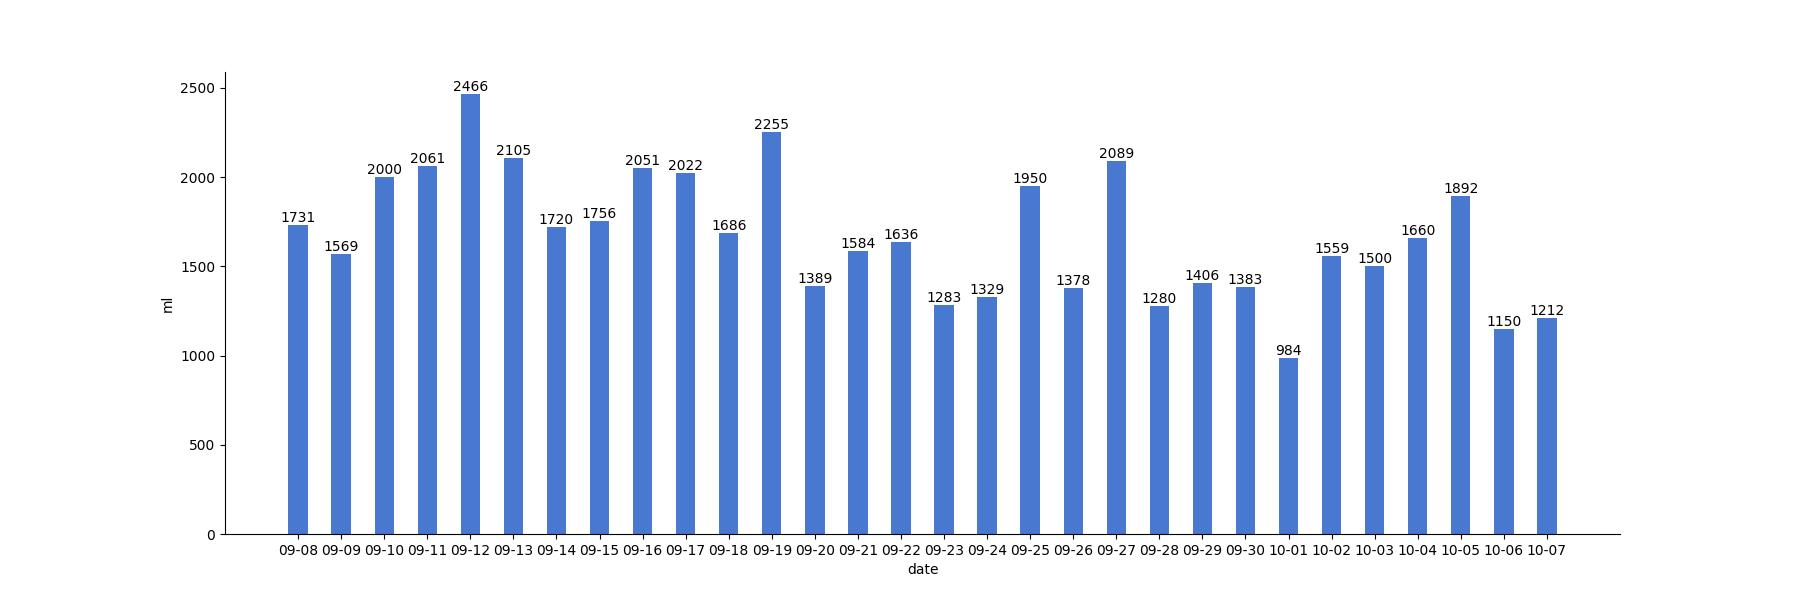
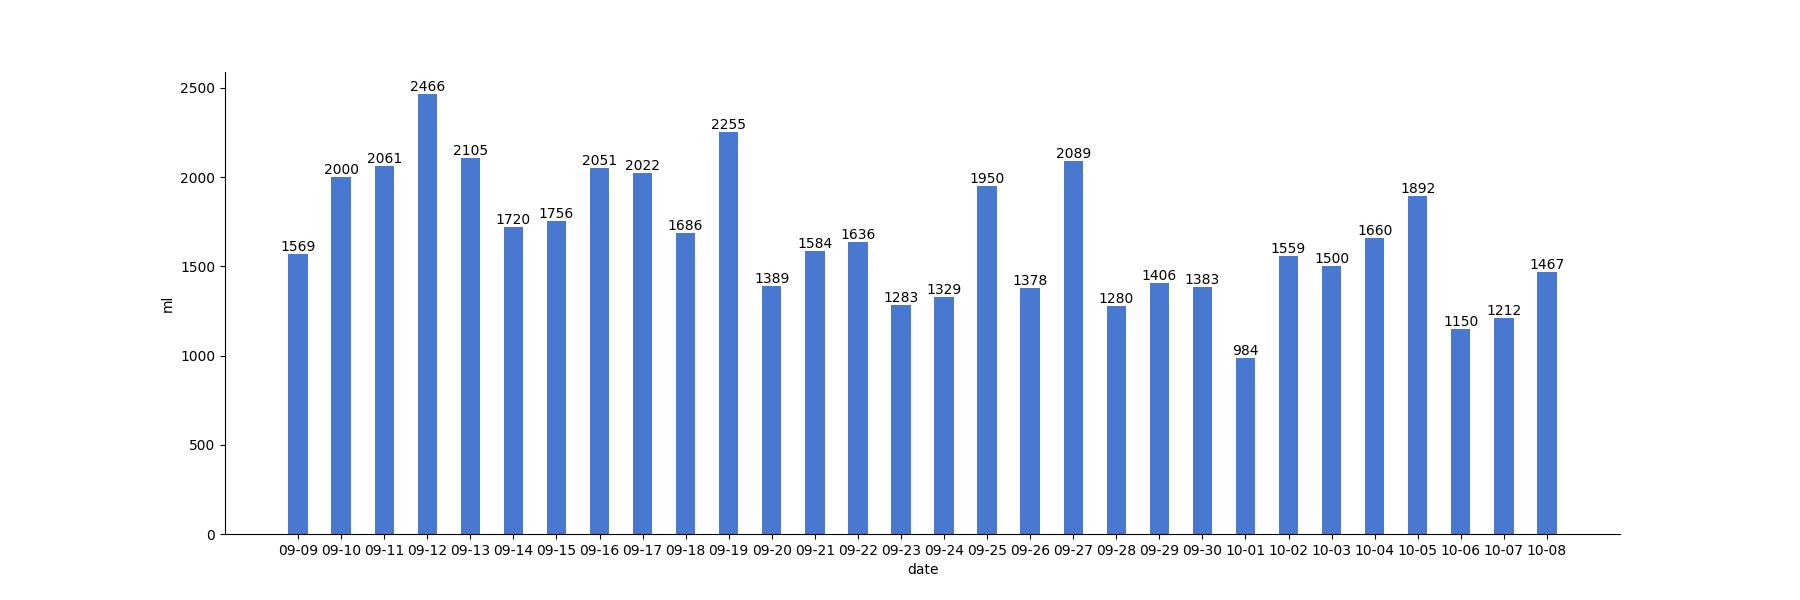
generated readme

diff --git a/README.md b/README.md
@@ -5,12 +5,12 @@
 
 | 今日总饮水量 | 每小时平均饮水量 |
 | :----: | :----: |
-| 1467 | 146 |
+| 75 | 75 |
 </div>
 
-| 日期 | 00:03:16 | 07:45:13 | 09:38:05 | 09:55:34 | 10:51:13 | 14:46:57 | 17:24:41 | 18:41:27 | 19:41:53 | 21:03:56 | 21:49:10 | 22:08:21 | 22:12:17 | 22:16:39 |
-| :----: | :----: | :----: | :----: | :----: | :----: | :----: | :----: | :----: | :----: | :----: | :----: | :----: | :----: | :----: |
-| 2022-10-08 | 10 | 200 | 30 | 77 | 34 | 123 | 136 | 500 | 28 | 60 | 46 | 64 | 76 | 83 |
+| 日期 | 00:17:48 |
+| :----: | :----: |
+| 2022-10-09 | 75 |
 
 # 近30日饮水数据
 
@@ -19,8 +19,12 @@
 
 | 总饮水量 | 日均饮水量 |
 | :----: | :----: |
-| 50086 | 1669 |
+| 49822 | 1660 |
 </div>
+
+| 日期 | all | 00:03:16 | 07:45:13 | 09:38:05 | 09:55:34 | 10:51:13 | 14:46:57 | 17:24:41 | 18:41:27 | 19:41:53 | 21:03:56 | 21:49:10 | 22:08:21 | 22:12:17 | 22:16:39 |
+| :----: | :----: | :----: | :----: | :----: | :----: | :----: | :----: | :----: | :----: | :----: | :----: | :----: | :----: | :----: | :----: |
+| 2022-10-08 | 1467 | 10 | 200 | 30 | 77 | 34 | 123 | 136 | 500 | 28 | 60 | 46 | 64 | 76 | 83 |
 
 | 日期 | all | 00:23:08 | 01:52:17 | 10:26:15 | 11:27:48 | 14:38:33 | 15:01:42 | 15:32:00 | 16:34:37 | 18:03:05 | 18:33:29 | 18:47:45 | 22:18:42 | 22:57:46 |
 | :----: | :----: | :----: | :----: | :----: | :----: | :----: | :----: | :----: | :----: | :----: | :----: | :----: | :----: | :----: |
@@ -141,8 +145,4 @@
 | 日期 | all | 00:02:27 | 00:51:06 | 01:31:10 | 02:04:11 | 02:52:05 | 03:28:48 | 06:06:58 | 07:37:04 | 08:13:06 | 16:19:04 | 16:29:06 | 16:58:48 | 17:31:41 | 18:09:05 | 18:45:50 | 19:13:30 | 20:30:44 | 22:03:46 | 23:16:32 |
 | :----: | :----: | :----: | :----: | :----: | :----: | :----: | :----: | :----: | :----: | :----: | :----: | :----: | :----: | :----: | :----: | :----: | :----: | :----: | :----: | :----: |
 | 2022-09-08 | 1731 | 55 | 200 | 71 | 78 | 98 | 58 | 400 | 34 | 83 | 55 | 72 | 66 | 47 | 88 | 69 | 53 | 93 | 62 | 49 |
-
-| 日期 | all | 00:52:07 | 02:31:05 | 03:23:35 | 04:04:32 | 05:10:48 | 05:42:24 | 06:53:33 | 08:20:28 | 14:54:31 | 15:30:20 | 16:36:48 | 17:39:50 | 18:09:57 | 18:24:33 | 19:16:30 | 20:27:18 | 20:45:48 | 22:00:33 | 22:37:29 | 22:54:06 |
-| :----: | :----: | :----: | :----: | :----: | :----: | :----: | :----: | :----: | :----: | :----: | :----: | :----: | :----: | :----: | :----: | :----: | :----: | :----: | :----: | :----: | :----: |
-| 2022-09-07 | 2088 | 200 | 46 | 108 | 63 | 32 | 200 | 74 | 60 | 55 | 36 | 73 | 300 | 133 | 72 | 37 | 60 | 212 | 109 | 86 | 132 |
 
